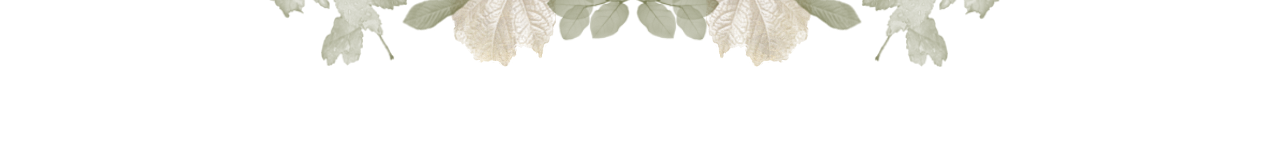
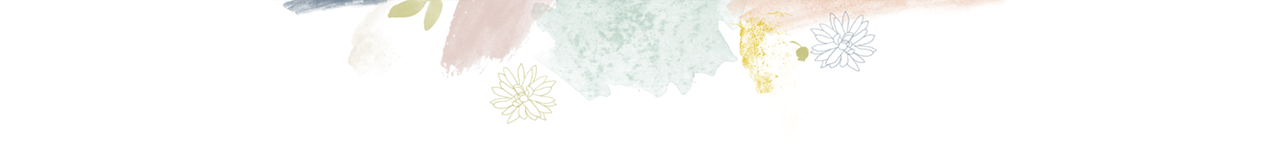
new look

Changed region(s): [[0.2158, 0.0, 0.8016, 0.8611], [0.4625, 0.5833, 0.4933, 0.6667]]

diff --git a/templates/home/index.html b/templates/home/index.html
@@ -9,7 +9,7 @@
 <div class="content-13-inch">
     <div id="videohome" class="timeline clearfix">
         <ul>
-            <li id="videoimg" style="position:relative; z-index: -1;"><img class="image" src="https://static.loadingplay.com/static/images/200_3b09092d96afa6b4ef669acbe319e294_play-video1.png" lp-load-big="https://static.loadingplay.com/static/images/3b09092d96afa6b4ef669acbe319e294_play-video1.png" style="position:relative;">
+            <li id="videoimg" style="position:relative; z-index: -1;"><img class="image" src="https://static.loadingplay.com/static/images/200_787623f24a1c48b975b92a14d4dbff39_video2.png" lp-load-big="https://static.loadingplay.com/static/images/787623f24a1c48b975b92a14d4dbff39_video2.png" style="position:relative;">
                 <ul>
                     <img id="videoimg-1"class="image esconder" src="/{{nocache_static}}/images/ir-a-la-hover.png" style="position:relative;margin-top: -64.49%;">
                 </ul>
@@ -23,12 +23,12 @@
     </div>
     <div class="estilodevida clearfix">
         <a href="/store">
-        <img class="image" src="https://static.loadingplay.com/static/images/200_a1668b4553223b41bf8911a67af16aed_IR-A-LA-TIENDA.png" lp-load-big="https://static.loadingplay.com/static/images/a1668b4553223b41bf8911a67af16aed_IR-A-LA-TIENDA.png">
+        <img class="image" src="https://static.loadingplay.com/static/images/200_24de3b4e64019ac217f6f3e4cd6383cd_ir-a-la-tienda-_1.png" lp-load-big="https://static.loadingplay.com/static/images/24de3b4e64019ac217f6f3e4cd6383cd_ir-a-la-tienda-_1.png">
         </a>
     </div>
     <div class="queeslonuevo clearfix">
         <a href="/store/getproductsbytags/nuevo">
-        <img class="image" src="https://static.loadingplay.com/static/images/200_025f8d549e884f8be5c231e5f810a0af_Nuevo.png" lp-load-big="https://static.loadingplay.com/static/images/025f8d549e884f8be5c231e5f810a0af_Nuevo.png">
+        <img class="image" src="https://static.loadingplay.com/static/images/200_74edd11fe7c3bb69ed685dca5efe2393_nuevo1.png" lp-load-big="https://static.loadingplay.com/static/images/74edd11fe7c3bb69ed685dca5efe2393_nuevo1.png">
         </a>
     </div>
     <div class="queeslonuevo-small">
@@ -38,7 +38,7 @@
     </div>
     <div class="comunidad clearfix">
         <a href="https://instagram.com/gianidafirenze/" target="_blank">
-        <img class="image" src="https://static.loadingplay.com/static/images/200_36ed0cf8cfe89c76d275bbba56ad4f59_INSTAGRAM.png" lp-load-big="https://static.loadingplay.com/static/images/36ed0cf8cfe89c76d275bbba56ad4f59_INSTAGRAM.png">
+        <img class="image" src="https://static.loadingplay.com/static/images/200_9743a4a4a2dc24f814fd64eb3d836925_instagramm.png" lp-load-big="https://static.loadingplay.com/static/images/9743a4a4a2dc24f814fd64eb3d836925_instagramm.png">
         </a>
     </div>
     <div class="tienda clearfix">

diff --git a/templates/slider.html b/templates/slider.html
@@ -1,15 +1,15 @@
     <div class="swiper-container content-13-inch" style="margin-top: 20px; margin-bottom: 20px;">
         <div class="swiper-wrapper">
             <div class="swiper-slide"> 
-                <a href="/store"><img class="slider" u="image" src="https://static.loadingplay.com/static/images/200_72278c3978b84cac8f61ea91b0362e09_Banner_principalA.png" lp-load-big="https://static.loadingplay.com/static/images/72278c3978b84cac8f61ea91b0362e09_Banner_principalA.png" /></a>
+                <a href="/store"><img class="slider" u="image" src="https://static.loadingplay.com/static/images/200_04368fe786d58f9451ff844bf13f4b95_Nuevos_modelos.png" lp-load-big="https://static.loadingplay.com/static/images/04368fe786d58f9451ff844bf13f4b95_Nuevos_modelos.png" /></a>
 	            <img class="slider-small" src="/static/images/Banner-movil1.png">
 	        </div>
             <div class="swiper-slide">
-                <img class="slider"u="image" src="https://static.loadingplay.com/static/images/200_a8e8af75e2bd821b1b3e56d1de166e54_Banner_Principal.png" lp-load-big="https://static.loadingplay.com/static/images/a8e8af75e2bd821b1b3e56d1de166e54_Banner_Principal.png" />
+                <img class="slider"u="image" src="https://static.loadingplay.com/static/images/200_156b513281bec5466991433c5013b3e5_Queltehue2.png" lp-load-big="https://static.loadingplay.com/static/images/156b513281bec5466991433c5013b3e5_Queltehue2.png" />
                 <img class="slider-small" src="/static/images/Banner-movil2.png">
             </div> 
             <div class="swiper-slide">
-                <img class="slider"u="image" src="https://static.loadingplay.com/static/images/200_163ae6c1562d849bf4fc0c7d4b79bfa3_2.png" lp-load-big="https://static.loadingplay.com/static/images/163ae6c1562d849bf4fc0c7d4b79bfa3_2.png" />
+                <img class="slider"u="image" src="https://static.loadingplay.com/static/images/200_9a81cf85d2ab0a8e758fa1f5fddbbfcd_Herramientas.png" lp-load-big="https://static.loadingplay.com/static/images/9a81cf85d2ab0a8e758fa1f5fddbbfcd_Herramientas.png" />
 	            <img class="slider-small" src="/static/images/Banner-movil3.png">
 	        </div> 
         </div>

diff --git a/templates/footer.html b/templates/footer.html
@@ -1,4 +1,6 @@
 <div class="footer clearfix">
+    <img src="/{{nocache_static}}/images/imgfooter.png" style="position: absolute; right: 0px; top: 0px;">
+    <img src="/{{nocache_static}}/images/imgfooter02.png" style="position: absolute; left: 0px; top: 0px;">
     <div class="footer-left-cont clearfix">
         <!--<a href="/"><img class="image logo-footer" src="/{{nocache_static}}/images/logo001-50x50.png" data-rimage data-src="/{{nocache_static}}/images/logo001-50x50.png"></a>-->
         <img class="image right-arrow-footer" src="/{{nocache_static}}/images/flechas-15x15.png" data-rimage data-src="/{{nocache_static}}/images/flechas-15x15.png">

diff --git a/static/css/footer.css b/static/css/footer.css
@@ -4,8 +4,7 @@
   clear: both;
   width: 100%;
   margin-top: 20px;
-  background-color: #FFFFFF;
-  background-image: url(/static/images/footer.png);
+  background-color: #f6f4f2;
   background-repeat: no-repeat;
   background-position: top right;
   font-family: 'PT Sans Caption', sans-serif;
